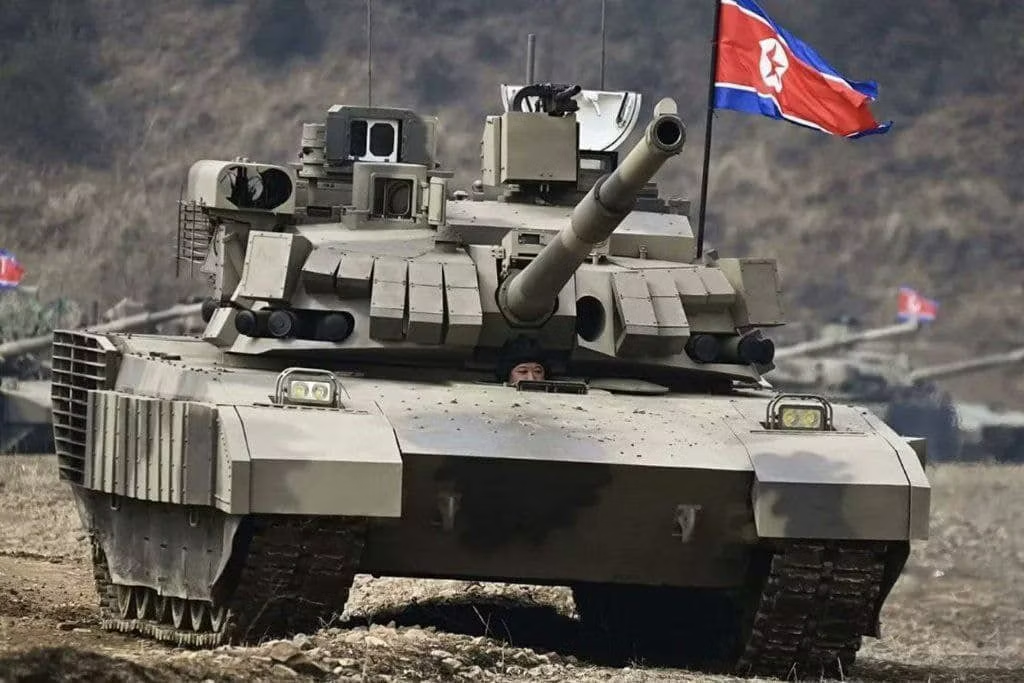
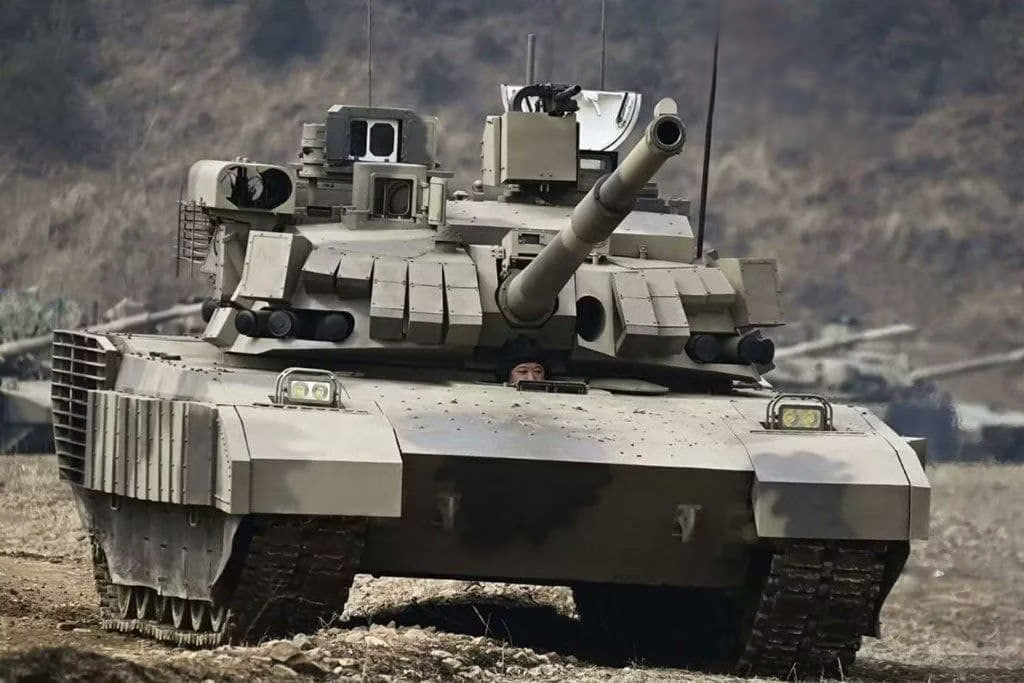
tank flags

Changed region(s): [[0.6875, 0.0, 0.875, 0.2152], [0.0, 0.2767, 0.0625, 0.4305], [0.8438, 0.3997, 0.9375, 0.4919]]

diff --git a/data.js b/data.js
@@ -224,8 +224,8 @@ window.equipmentData = [
             "assets/Chonma_2_Bravo.png"
         ],
         imageCredits: [
-            "Photo: Арт123ПК / Wikimedia Commons / CC BY-SA 4.0",
-            "Photo: Арт123ПК / Wikimedia Commons / CC BY-SA 4.0"
+            "Photo: Арт123ПК / Wikimedia Commons / CC BY-SA 4.0 — image modified (background removed)",
+            "Photo: Арт123ПК / Wikimedia Commons / CC BY-SA 4.0 — image modified (background removed)"
         ],
         specs: { speed: "65 km/h", armament: "125mm smoothbore", operationalRange: "500 km" },
         inService: 2020,